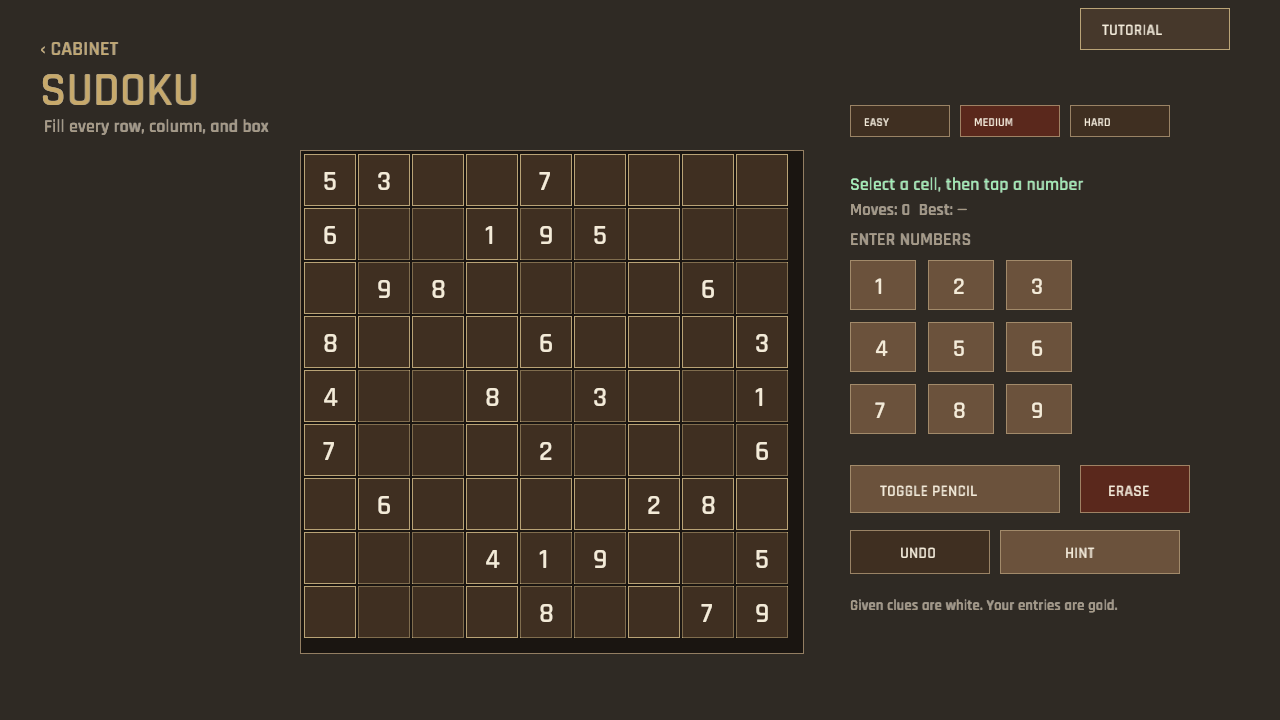
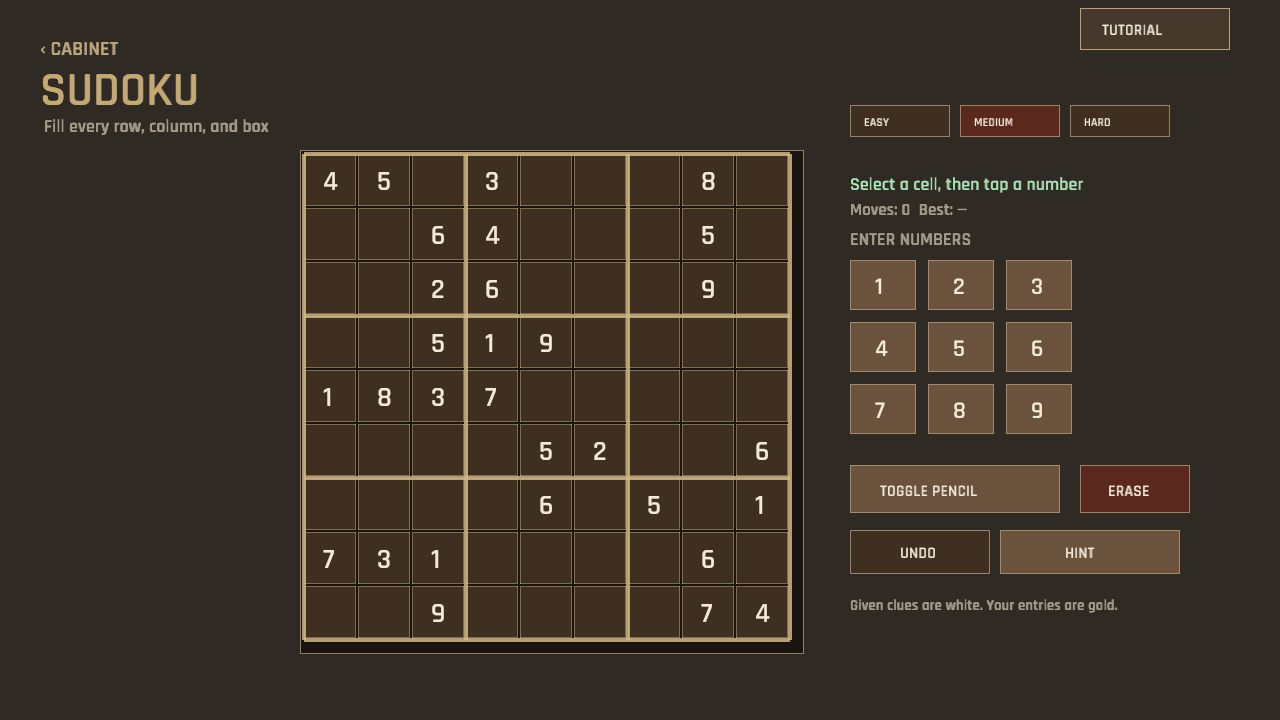
The cabinet deals a fresh grid with its borders drawn in brass (Sudoku generation and 3×3 region layout)
The old Easy board opened with six complete boxes because its first six rows were already solved, and every difficulty reused a fixed layout. Sudoku now starts from known unique source masks and applies randomized valid row-band, column-stack, and digit permutations at generation time. Easy uses 42 givens and its source mask leaves every 3×3 region incomplete; each generated puzzle is checked for exactly one solution.\n\nThe desktop, compact landscape, and portrait boards now draw thin cell lines beneath explicit 3×3 boundaries, making the regions readable at every supported size. Tests that depended on fixed coordinates or hint text now derive their moves from the generated board.\n\nValidated with 371 passing tests, desktop/landscape/portrait captures, and the full publish.ps1 Windows/WebGL Preview workflow.\n\nCo-Authored-By: Codex GPT-5 <noreply@openai.com>

diff --git a/src/sudoku.rs b/src/sudoku.rs
@@ -1,11 +1,12 @@
-//! Deterministic Sudoku board state for the first collection puzzle.
+//! Randomized Sudoku board state for the first collection puzzle.
 
+use macroquad_toolkit::rng::{random_u64, SeededRng};
 use serde::{Deserialize, Serialize};
 
 const PUZZLE: &str =
     "530070000600195000098000060800060003400803001700020006060000280000419005000080079";
 const EASY: &str =
-    "534678912672195348198342567859761423426853791713924856961537284287419000000000000";
+    "534670000672195000098300060850760003420803001710020006960000280200419005300080079";
 const HARD: &str =
     "005300000800000020070010500400005300010070006003200080060500009004000030000009700";
 
@@ -29,6 +30,14 @@ impl SudokuDifficulty {
             Self::Easy => "EASY",
             Self::Medium => "MEDIUM",
             Self::Hard => "HARD",
+        }
+    }
+
+    fn source(self) -> &'static str {
+        match self {
+            Self::Easy => EASY,
+            Self::Medium => PUZZLE,
+            Self::Hard => HARD,
         }
     }
 }
@@ -59,16 +68,12 @@ impl Sudoku {
         Self::with_difficulty(SudokuDifficulty::Medium)
     }
     pub fn with_difficulty(difficulty: SudokuDifficulty) -> Self {
-        let source = match difficulty {
-            SudokuDifficulty::Easy => EASY,
-            SudokuDifficulty::Medium => PUZZLE,
-            SudokuDifficulty::Hard => HARD,
-        };
-        let puzzle: Vec<u8> = source.bytes().map(|digit| digit - b'0').collect();
+        let mut rng = SeededRng::new(random_u64());
+        let puzzle = randomized_puzzle(difficulty.source(), &mut rng);
         assert_eq!(
             count_solutions(&puzzle, 2),
             1,
-            "Sudoku catalog puzzle is not unique"
+            "Generated Sudoku puzzle is not unique"
         );
         Self {
             difficulty,
@@ -209,6 +214,39 @@ fn count_solutions(puzzle: &[u8], limit: u8) -> u8 {
     let mut board = [0u8; 81];
     board.copy_from_slice(puzzle);
     solve_count(&mut board, 0, limit)
+}
+
+fn randomized_puzzle(source: &str, rng: &mut SeededRng) -> Vec<u8> {
+    let source: Vec<u8> = source.bytes().map(|digit| digit - b'0').collect();
+    assert_eq!(source.len(), 81, "Sudoku source must contain 81 cells");
+    let rows = shuffled_units(rng);
+    let columns = shuffled_units(rng);
+    let mut digits: Vec<u8> = (1..=9).collect();
+    rng.shuffle(&mut digits);
+    let mut puzzle = vec![0; 81];
+    for (row, &source_row) in rows.iter().enumerate() {
+        for (column, &source_column) in columns.iter().enumerate() {
+            let value = source[source_row * 9 + source_column];
+            puzzle[row * 9 + column] = if value == 0 {
+                0
+            } else {
+                digits[value as usize - 1]
+            };
+        }
+    }
+    puzzle
+}
+
+fn shuffled_units(rng: &mut SeededRng) -> Vec<usize> {
+    let mut units: Vec<Vec<usize>> = (0..3)
+        .map(|unit| {
+            let mut members = (0..3).map(|offset| unit * 3 + offset).collect::<Vec<_>>();
+            rng.shuffle(&mut members);
+            members
+        })
+        .collect();
+    rng.shuffle(&mut units);
+    units.into_iter().flatten().collect()
 }
 
 fn solve_count(board: &mut [u8; 81], found: u8, limit: u8) -> u8 {

diff --git a/src/sudoku/tests.rs b/src/sudoku/tests.rs
@@ -21,22 +21,54 @@ fn every_catalog_difficulty_has_one_solution() {
 }
 
 #[test]
+fn seeded_generation_changes_the_board_while_preserving_uniqueness() {
+    let first = randomized_puzzle(PUZZLE, &mut SeededRng::new(1));
+    let second = randomized_puzzle(PUZZLE, &mut SeededRng::new(2));
+    assert_ne!(first, second);
+    assert_eq!(count_solutions(&first, 2), 1);
+    assert_eq!(count_solutions(&second, 2), 1);
+}
+
+#[test]
+fn easy_starts_with_a_real_grid_to_solve() {
+    let sudoku = Sudoku::with_difficulty(SudokuDifficulty::Easy);
+    let givens = sudoku.puzzle.iter().filter(|&&value| value != 0).count();
+    assert_eq!(givens, 42);
+    for box_row in 0..3 {
+        for box_column in 0..3 {
+            let givens = (0..3)
+                .flat_map(|row| {
+                    (0..3).map(move |column| (box_row * 3 + row) * 9 + box_column * 3 + column)
+                })
+                .filter(|&index| sudoku.puzzle[index] != 0)
+                .count();
+            assert!(givens < 9, "Easy puzzle contains a complete 3×3 box");
+        }
+    }
+}
+
+#[test]
 fn invalid_peer_value_is_rejected_and_notes_toggle() {
     let mut game = Sudoku::new();
-    assert!(game.place(2, 4));
-    assert!(!game.place(3, 4));
-    assert!(game.toggle_note(3, 6));
-    assert_eq!(game.notes[3], 1 << 6);
-    assert!(game.toggle_note(3, 6));
-    assert_eq!(game.notes[3], 0);
+    let (index, value) = game.hint_move().unwrap();
+    assert!(game.place(index, value));
+    let peer = (0..81)
+        .find(|&other| game.values[other] == 0 && Sudoku::peers(index, other))
+        .unwrap();
+    assert!(!game.place(peer, value));
+    assert!(game.toggle_note(peer, 6));
+    assert_eq!(game.notes[peer], 1 << 6);
+    assert!(game.toggle_note(peer, 6));
+    assert_eq!(game.notes[peer], 0);
 }
 
 #[test]
 fn erase_clears_player_entry_but_not_given() {
     let mut game = Sudoku::new();
-    assert!(game.place(2, 4));
-    assert!(game.erase(2));
-    assert_eq!(game.values[2], 0);
+    let (index, value) = game.hint_move().unwrap();
+    assert!(game.place(index, value));
+    assert!(game.erase(index));
+    assert_eq!(game.values[index], 0);
     let given = game.puzzle.iter().position(|&value| value != 0).unwrap();
     assert!(!game.erase(given));
 }
@@ -45,10 +77,11 @@ fn erase_clears_player_entry_but_not_given() {
 fn difficulty_and_undo_restore_the_previous_entry() {
     let mut game = Sudoku::with_difficulty(SudokuDifficulty::Easy);
     assert_eq!(game.difficulty, SudokuDifficulty::Easy);
-    assert!(game.place(69, 6));
+    let (index, value) = game.hint_move().unwrap();
+    assert!(game.place(index, value));
     assert_eq!(game.moves, 1);
     assert!(game.undo());
-    assert_eq!(game.values[69], 0);
+    assert_eq!(game.values[index], 0);
     assert_eq!(game.moves, 0);
 }
 

diff --git a/src/sudoku_ui.rs b/src/sudoku_ui.rs
@@ -57,11 +57,7 @@ pub fn draw_sudoku(state: &AppState) {
             rect.y,
             rect.w,
             rect.h,
-            if index % 3 == 0 || index / 9 % 3 == 0 {
-                2.
-            } else {
-                1.
-            },
+            1.,
             accessibility::grid_line(state.high_contrast),
         );
         let value = game.values[index];
@@ -86,6 +82,25 @@ pub fn draw_sudoku(state: &AppState) {
                 Color::new(0.63, 0.58, 0.72, 1.),
             );
         }
+    }
+    for boundary in 0..=3 {
+        let offset = boundary as f32 * grid.cell_width * 3.;
+        draw_line(
+            grid.bounds.x + offset,
+            grid.bounds.y,
+            grid.bounds.x + offset,
+            grid.bounds.bottom(),
+            4.,
+            accessibility::grid_line(state.high_contrast),
+        );
+        draw_line(
+            grid.bounds.x,
+            grid.bounds.y + offset,
+            grid.bounds.right(),
+            grid.bounds.y + offset,
+            4.,
+            accessibility::grid_line(state.high_contrast),
+        );
     }
     let instruction = state
         .card_hint

diff --git a/src/responsive_sudoku.rs b/src/responsive_sudoku.rs
@@ -70,7 +70,7 @@ pub fn draw(state: &AppState) {
             rect.y,
             rect.w,
             rect.h,
-            if col % 3 == 0 || row % 3 == 0 { 2. } else { 1. },
+            1.,
             crate::accessibility::grid_line(state.high_contrast),
         );
         if game.values[index] != 0 {
@@ -86,6 +86,25 @@ pub fn draw(state: &AppState) {
                 },
             );
         }
+    }
+    for boundary in 0..=3 {
+        let offset = boundary as f32 * cell * 3.;
+        draw_line(
+            board.x + 4. + offset,
+            board.y + 4.,
+            board.x + 4. + offset,
+            board.y + 4. + cell * 9.,
+            3.5,
+            crate::accessibility::grid_line(state.high_contrast),
+        );
+        draw_line(
+            board.x + 4.,
+            board.y + 4. + offset,
+            board.x + 4. + cell * 9.,
+            board.y + 4. + offset,
+            3.5,
+            crate::accessibility::grid_line(state.high_contrast),
+        );
     }
     text(
         if state.sudoku_note_mode {

diff --git a/src/responsive_landscape_games.rs b/src/responsive_landscape_games.rs
@@ -211,7 +211,7 @@ pub fn draw_sudoku(state: &AppState) {
             rect.y,
             rect.w,
             rect.h,
-            if row % 3 == 0 || col % 3 == 0 { 2. } else { 1. },
+            1.,
             accessibility::grid_line(state.high_contrast),
         );
         let value = game.values[index];
@@ -239,6 +239,25 @@ pub fn draw_sudoku(state: &AppState) {
                 Color::new(0.63, 0.95, 0.72, 1.),
             );
         }
+    }
+    for boundary in 0..=3 {
+        let offset = boundary as f32 * cell * 3.;
+        draw_line(
+            10. + offset,
+            28.,
+            10. + offset,
+            388.,
+            3.5,
+            accessibility::grid_line(state.high_contrast),
+        );
+        draw_line(
+            10.,
+            28. + offset,
+            370.,
+            28. + offset,
+            3.5,
+            accessibility::grid_line(state.high_contrast),
+        );
     }
     text(
         match game.status {

diff --git a/src/game.rs b/src/game.rs
@@ -47,6 +47,7 @@ pub struct Game {
 }
 impl Game {
     pub async fn new() -> Self {
+        macroquad_toolkit::rng::srand(get_time().to_bits());
         let data = GameData::load().expect("Idle Hands embedded data failed to load");
         let mut assets = AssetManager::new();
         let placeholder = Image::gen_image_color(16, 16, crate::theme::SURFACE_DARK);

diff --git a/src/card_hints/tests.rs b/src/card_hints/tests.rs
@@ -112,7 +112,7 @@ fn default_mastermind_has_a_deterministic_hint() {
 #[test]
 fn default_sudoku_has_a_deterministic_hint() {
     let state = AppState::default();
-    assert_eq!(sudoku(&state), "Enter 4 in row 1, column 3.");
+    assert!(sudoku(&state).starts_with("Enter "));
     assert_eq!(sudoku(&state), sudoku(&state));
 }
 
